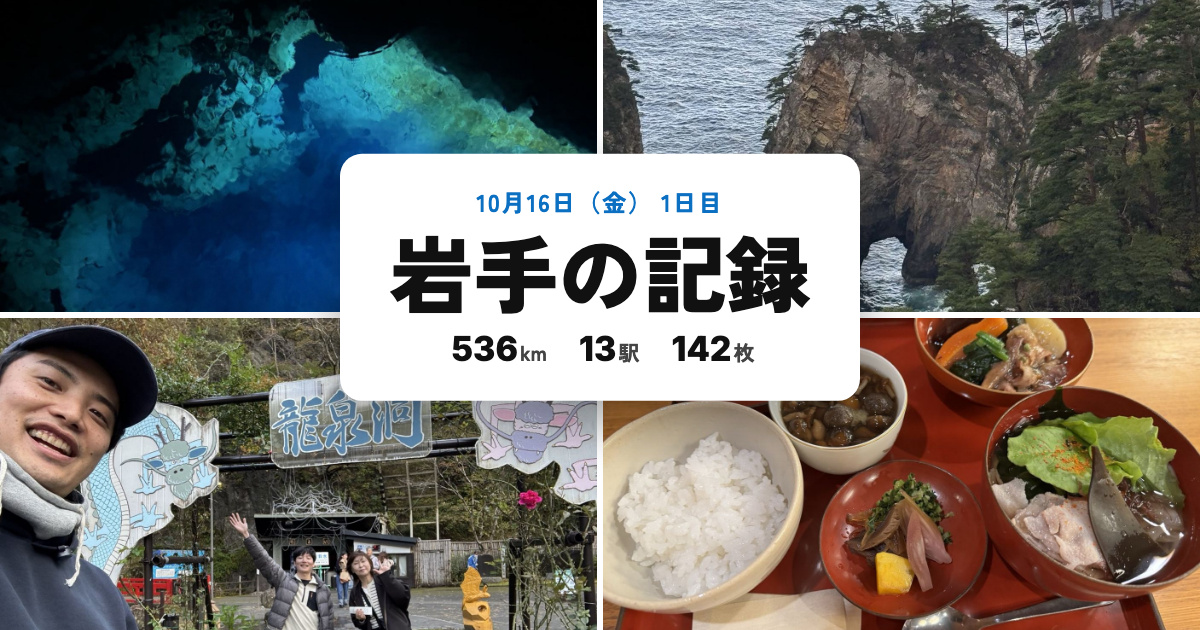
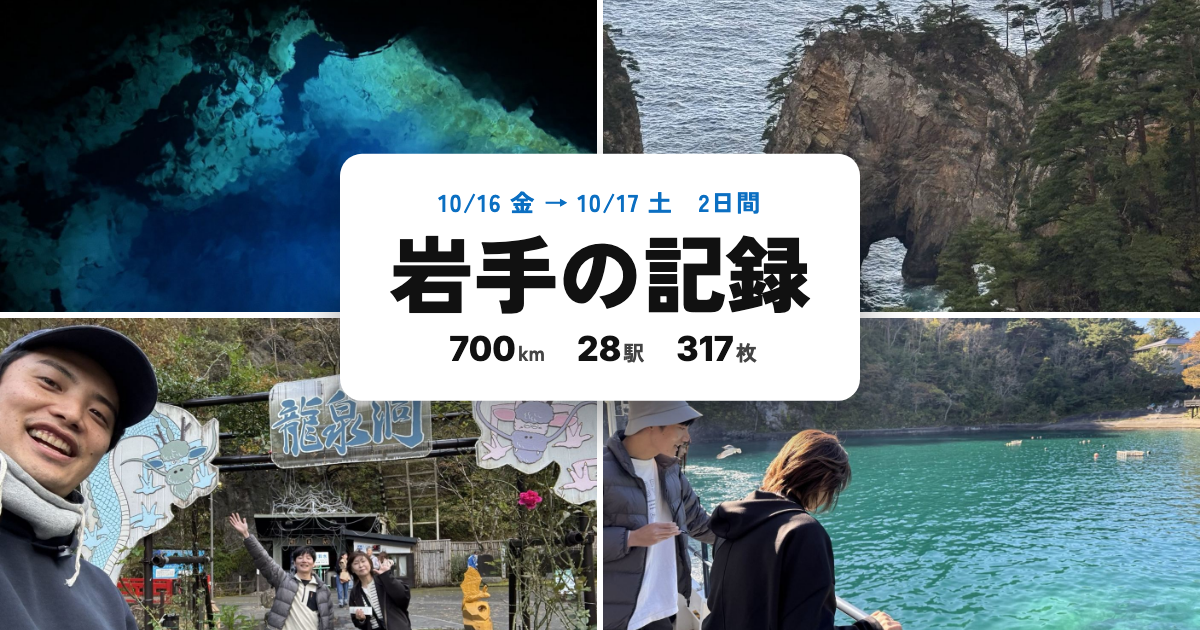
iwate: 写真の見せ方はA案（帯＋全N枚ボタン）に確定しB/Cと切替を削除、サムネを2日分（700km・28駅・317枚）に、ogcard は Chrome の終了コードでなく画像の有無で判定

Changed region(s): [[0.4933, 0.4825, 1.0, 1.0], [0.37, 0.3016, 0.6475, 0.3619], [0.37, 0.5127, 0.6475, 0.573]]

diff --git a/docs/iwate-2026-10/kiroku/index.html b/docs/iwate-2026-10/kiroku/index.html
@@ -47,28 +47,6 @@ section.last .rail::before{bottom:calc(100% - 30px)}
 .hero .nav.p{left:8px}.hero .nav.n{right:8px}
 .hero .cnt{position:absolute;right:8px;bottom:8px;background:rgba(0,0,0,.62);color:#fff;font-size:13px;padding:4px 10px;border-radius:99px}
 .hero .cnt b{font-weight:800}
-.dots,.car,.pg{display:none}
-/* B案: 写真の束（重なった紙の影＋点々） */
-.s-b .sw{display:none}
-.s-b .hero{margin:12px 12px 0 0;overflow:visible;box-shadow:6px -6px 0 -1px #fff,6px -6px 0 0 #d6d6d6,12px -12px 0 -1px #fff,12px -12px 0 0 #c4c4c4}
-.s-b .hero img{border-radius:10px}
-.s-b .hero .cnt{top:8px;bottom:auto;font-size:14px;padding:5px 11px}
-.s-b .dots{display:flex;align-items:center;justify-content:center;gap:6px;flex:none;margin-top:10px}
-.s-b .dots i{width:7px;height:7px;border-radius:50%;background:#cfcfcf;transition:.2s}
-.s-b .dots i.on{width:20px;border-radius:4px;background:var(--dc,var(--acc))}
-.s-b .dots em{font-style:normal;font-size:12px;color:var(--sub);margin-left:6px}
-/* C案: のぞき見カルーセル */
-.s-c .hero,.s-c .sw{display:none}
-.s-c .car{display:flex;flex:1;min-height:0;gap:8px;overflow-x:auto;scroll-snap-type:x mandatory;scrollbar-width:none;margin-right:-16px;padding-right:16px}
-.s-c .car::-webkit-scrollbar{display:none}
-.s-c .car button{position:relative;flex:none;width:84%;height:100%;border-radius:10px;overflow:hidden;scroll-snap-align:start;background:#f3f3f3}
-.s-c .car img{width:100%;height:100%;object-fit:cover}
-.s-c .pg{display:flex;align-items:center;gap:10px;flex:none;margin-top:8px;font-size:13px}
-.s-c .pg span{flex:1;height:4px;background:#e6e6e6;border-radius:2px;overflow:hidden}
-.s-c .pg span i{display:block;height:100%;background:var(--dc,var(--acc));transition:width .2s}
-.s-c .pg b{font-weight:800}.s-c .pg em{font-style:normal}.s-c .pg small{color:var(--sub)}
-.svp{position:fixed;right:10px;top:calc(var(--head) + 10px);white-space:nowrap;z-index:50;background:#111;color:#fff;font:700 13px "Noto Sans JP",sans-serif;padding:6px 6px 6px 14px;border-radius:99px;display:flex;align-items:center;gap:4px;box-shadow:0 4px 14px rgba(0,0,0,.3)}
-.svp a{color:#fff;text-decoration:none;width:32px;height:32px;border-radius:50%;display:grid;place-items:center}.svp a.on{background:#fff;color:#111}
 .strip button{position:relative;flex:none;width:56px;height:56px;border-radius:6px;overflow:hidden;outline-offset:-3px}
 .strip img{width:100%;height:100%;object-fit:cover}
 .strip button.on{outline:3px solid var(--dc,var(--acc))}
@@ -140,10 +118,7 @@ D.days.forEach((dy,di)=>{
   <h2>${esc(s.name)}</h2>
   <p class="meta">写真<b>${s.items.length}</b>枚${s.km!=null?` · 前の駅から<b>${s.km}</b>km`:''}${s.voices.length?' · 会話あり':''}</p>
   <button class="hero" data-i="${i}"><img alt="" loading="${i<2?'eager':'lazy'}" src="${IMG(s.items[0].f)}">${s.items.length>1?`<span class="nav p" data-d="-1" aria-label="前の写真">‹</span><span class="nav n" data-d="1" aria-label="次の写真">›</span><span class="cnt num"><b>1</b> / ${s.items.length}</span>`:''}</button>
-  ${s.items.length>1?`<div class="sw"><div class="strip">${s.items.map((it,k)=>`<button data-f="${it.f}" class="${k?'':'on'}"><img loading="lazy" src="${IMG(it.f)}" alt="">${it.k==='v'?'<i class="vmark">▶</i>':''}</button>`).join('')}</div><button class="more" aria-label="写真の続きを見る">全${s.items.length}枚 ›</button></div>
-  <div class="dots" aria-hidden="true">${Array.from({length:Math.min(s.items.length,9)},(_,k)=>`<i class="${k?'':'on'}"></i>`).join('')}${s.items.length>9?`<em>全${s.items.length}枚</em>`:''}</div>
-  <div class="car" data-i="${i}">${s.items.map((it,k)=>`<button data-k="${k}"><img loading="lazy" src="${IMG(it.f)}" alt="">${it.k==='v'?'<i class="vmark">▶</i>':''}</button>`).join('')}</div>
-  <div class="pg"><span><i style="width:${100/s.items.length}%"></i></span><b class="num"><em>1</em> / ${s.items.length}</b><small>横にスワイプ</small></div>`:''}
+  ${s.items.length>1?`<div class="sw"><div class="strip">${s.items.map((it,k)=>`<button data-f="${it.f}" class="${k?'':'on'}"><img loading="lazy" src="${IMG(it.f)}" alt="">${it.k==='v'?'<i class="vmark">▶</i>':''}</button>`).join('')}</div><button class="more" aria-label="写真の続きを見る">全${s.items.length}枚 ›</button></div>`:''}
   <div class="next">${isLast?`<b>終着</b> ここで${dy.n}日はおしまい`:`次は <span class="num">${two(nx.no)}</span><b>${esc(nx.name)}</b><span class="num">${nx.t0}</span>`}</div>
   </div></section>`;
     sel[i]=s.items[0].f;
@@ -157,7 +132,6 @@ const secOf=i=>$(`#line section[data-i="${i}"]:not([data-talk])`);
 function show(i,f){
   sel[i]=f;const sec=secOf(i);$('.hero img',sec).src=IMG(f);
   const k=S[i].items.findIndex(x=>x.f===f),n=S[i].items.length,c=$('.cnt b',sec);if(c)c.textContent=k+1;
-  const ds=$$('.dots i',sec);ds.forEach((d,j)=>d.classList.toggle('on',j===Math.min(ds.length-1,Math.floor(k*ds.length/n))));
   $$('.strip button',sec).forEach(b=>{b.classList.toggle('on',b.dataset.f===f);if(b.dataset.f===f)b.scrollIntoView({inline:'center',block:'nearest',behavior:'smooth'})});
   M.light(f);
 }
@@ -167,16 +141,6 @@ line.addEventListener('click',e=>{
   const mo=e.target.closest('.more');if(mo){const st=mo.previousElementSibling;st.scrollBy({left:st.clientWidth*.8,behavior:'smooth'});return}
   const h=e.target.closest('.hero');if(h){const i=+h.dataset.i,L=S[i].items;lightbox(D,L,L.findIndex(x=>x.f===sel[i]),it=>show(i,it.f))}
 });
-// 帯まわりのデザイン案（?strip=a|b|c で切替。決まったら1案に絞る）
-const SV=(new URLSearchParams(location.search).get('strip')||'a').toLowerCase();document.body.classList.add('s-'+SV);
-if(new URLSearchParams(location.search).has('strip')){const p=document.createElement('nav');p.className='svp';
-  p.innerHTML='写真の案 '+['a','b','c'].map(v=>`<a href="?strip=${v}${location.hash}" class="${v===SV?'on':''}">${v.toUpperCase()}</a>`).join('');document.body.append(p)}
-// C案: のぞき見カルーセル
-$$('.car').forEach(cr=>{const i=+cr.dataset.i,L=S[i].items,sec=cr.closest('section'),bar=$('.pg i',sec),lb=$('.pg em',sec);
-  cr.addEventListener('scroll',()=>{const w=cr.firstElementChild.offsetWidth+8,k=Math.min(L.length-1,Math.round(cr.scrollLeft/w));
-    bar.style.width=(k+1)*100/L.length+'%';lb.textContent=k+1;if(sel[i]!==L[k].f){sel[i]=L[k].f;M.light(L[k].f)}},{passive:true});
-  cr.addEventListener('click',e=>{const b=e.target.closest('button');if(!b)return;e.stopPropagation();
-    lightbox(D,L,+b.dataset.k,it=>{const k=L.indexOf(it);cr.scrollTo({left:k*(cr.firstElementChild.offsetWidth+8)})})})});
 const step=(i,d)=>{const L=S[i].items,k=L.findIndex(x=>x.f===(sel[i]||L[0].f));show(i,L[(k+d+L.length)%L.length].f)};
 // 大きい写真は左右スワイプでもめくれる
 let tx=null;line.addEventListener('touchstart',e=>{tx=e.target.closest('.hero')?e.touches[0].clientX:null},{passive:true});
@@ -187,8 +151,8 @@ line.addEventListener('click',e=>{if(e.target.closest('.hero[data-sw]'))e.stopIm
 const endChk=st=>st.parentNode.classList.toggle('end',st.scrollLeft+st.clientWidth>=st.scrollWidth-4);
 $$('.strip').forEach(st=>{st.addEventListener('scroll',()=>endChk(st),{passive:true});endChk(st)});
 // 駅に来たら帯を一度だけ少し流して戻す（続きがある合図）
-const nudged=new Set();const nudge=i=>{const st=$(SV==='c'?'.car':'.strip',secOf(i));if(SV==='b')return;if(!st||nudged.has(i)||st.scrollWidth<=st.clientWidth)return;nudged.add(i);
-  setTimeout(()=>{st.scrollBy({left:SV==='c'?140:90,behavior:'smooth'});setTimeout(()=>st.scrollBy({left:SV==='c'?-140:-90,behavior:'smooth'}),650)},350)};
+const nudged=new Set();const nudge=i=>{const st=$('.strip',secOf(i));if(!st||nudged.has(i)||st.scrollWidth<=st.clientWidth)return;nudged.add(i);
+  setTimeout(()=>{st.scrollBy({left:90,behavior:'smooth'});setTimeout(()=>st.scrollBy({left:-90,behavior:'smooth'}),650)},350)};
 // LINE等のアプリ内ブラウザは 100dvh が見えている高さより大きいことがあるので、実際の高さで駅の高さを決める
 const fit=()=>document.documentElement.style.setProperty('--secH',line.clientHeight+'px');fit();addEventListener('resize',fit);
 let cur=null;

diff --git a/engine/kiroku/tpl.html b/engine/kiroku/tpl.html
@@ -45,10 +45,7 @@ D.days.forEach((dy,di)=>{
   <h2>${esc(s.name)}</h2>
   <p class="meta">写真<b>${s.items.length}</b>枚${s.km!=null?` · 前の駅から<b>${s.km}</b>km`:''}${s.voices.length?' · 会話あり':''}</p>
   <button class="hero" data-i="${i}"><img alt="" loading="${i<2?'eager':'lazy'}" src="${IMG(s.items[0].f)}">${s.items.length>1?`<span class="nav p" data-d="-1" aria-label="前の写真">‹</span><span class="nav n" data-d="1" aria-label="次の写真">›</span><span class="cnt num"><b>1</b> / ${s.items.length}</span>`:''}</button>
-  ${s.items.length>1?`<div class="sw"><div class="strip">${s.items.map((it,k)=>`<button data-f="${it.f}" class="${k?'':'on'}"><img loading="lazy" src="${IMG(it.f)}" alt="">${it.k==='v'?'<i class="vmark">▶</i>':''}</button>`).join('')}</div><button class="more" aria-label="写真の続きを見る">全${s.items.length}枚 ›</button></div>
-  <div class="dots" aria-hidden="true">${Array.from({length:Math.min(s.items.length,9)},(_,k)=>`<i class="${k?'':'on'}"></i>`).join('')}${s.items.length>9?`<em>全${s.items.length}枚</em>`:''}</div>
-  <div class="car" data-i="${i}">${s.items.map((it,k)=>`<button data-k="${k}"><img loading="lazy" src="${IMG(it.f)}" alt="">${it.k==='v'?'<i class="vmark">▶</i>':''}</button>`).join('')}</div>
-  <div class="pg"><span><i style="width:${100/s.items.length}%"></i></span><b class="num"><em>1</em> / ${s.items.length}</b><small>横にスワイプ</small></div>`:''}
+  ${s.items.length>1?`<div class="sw"><div class="strip">${s.items.map((it,k)=>`<button data-f="${it.f}" class="${k?'':'on'}"><img loading="lazy" src="${IMG(it.f)}" alt="">${it.k==='v'?'<i class="vmark">▶</i>':''}</button>`).join('')}</div><button class="more" aria-label="写真の続きを見る">全${s.items.length}枚 ›</button></div>`:''}
   <div class="next">${isLast?`<b>終着</b> ここで${dy.n}日はおしまい`:`次は <span class="num">${two(nx.no)}</span><b>${esc(nx.name)}</b><span class="num">${nx.t0}</span>`}</div>
   </div></section>`;
     sel[i]=s.items[0].f;
@@ -62,7 +59,6 @@ const secOf=i=>$(`#line section[data-i="${i}"]:not([data-talk])`);
 function show(i,f){
   sel[i]=f;const sec=secOf(i);$('.hero img',sec).src=IMG(f);
   const k=S[i].items.findIndex(x=>x.f===f),n=S[i].items.length,c=$('.cnt b',sec);if(c)c.textContent=k+1;
-  const ds=$$('.dots i',sec);ds.forEach((d,j)=>d.classList.toggle('on',j===Math.min(ds.length-1,Math.floor(k*ds.length/n))));
   $$('.strip button',sec).forEach(b=>{b.classList.toggle('on',b.dataset.f===f);if(b.dataset.f===f)b.scrollIntoView({inline:'center',block:'nearest',behavior:'smooth'})});
   M.light(f);
 }
@@ -72,16 +68,6 @@ line.addEventListener('click',e=>{
   const mo=e.target.closest('.more');if(mo){const st=mo.previousElementSibling;st.scrollBy({left:st.clientWidth*.8,behavior:'smooth'});return}
   const h=e.target.closest('.hero');if(h){const i=+h.dataset.i,L=S[i].items;lightbox(D,L,L.findIndex(x=>x.f===sel[i]),it=>show(i,it.f))}
 });
-// 帯まわりのデザイン案（?strip=a|b|c で切替。決まったら1案に絞る）
-const SV=(new URLSearchParams(location.search).get('strip')||'a').toLowerCase();document.body.classList.add('s-'+SV);
-if(new URLSearchParams(location.search).has('strip')){const p=document.createElement('nav');p.className='svp';
-  p.innerHTML='写真の案 '+['a','b','c'].map(v=>`<a href="?strip=${v}${location.hash}" class="${v===SV?'on':''}">${v.toUpperCase()}</a>`).join('');document.body.append(p)}
-// C案: のぞき見カルーセル
-$$('.car').forEach(cr=>{const i=+cr.dataset.i,L=S[i].items,sec=cr.closest('section'),bar=$('.pg i',sec),lb=$('.pg em',sec);
-  cr.addEventListener('scroll',()=>{const w=cr.firstElementChild.offsetWidth+8,k=Math.min(L.length-1,Math.round(cr.scrollLeft/w));
-    bar.style.width=(k+1)*100/L.length+'%';lb.textContent=k+1;if(sel[i]!==L[k].f){sel[i]=L[k].f;M.light(L[k].f)}},{passive:true});
-  cr.addEventListener('click',e=>{const b=e.target.closest('button');if(!b)return;e.stopPropagation();
-    lightbox(D,L,+b.dataset.k,it=>{const k=L.indexOf(it);cr.scrollTo({left:k*(cr.firstElementChild.offsetWidth+8)})})})});
 const step=(i,d)=>{const L=S[i].items,k=L.findIndex(x=>x.f===(sel[i]||L[0].f));show(i,L[(k+d+L.length)%L.length].f)};
 // 大きい写真は左右スワイプでもめくれる
 let tx=null;line.addEventListener('touchstart',e=>{tx=e.target.closest('.hero')?e.touches[0].clientX:null},{passive:true});
@@ -92,8 +78,8 @@ line.addEventListener('click',e=>{if(e.target.closest('.hero[data-sw]'))e.stopIm
 const endChk=st=>st.parentNode.classList.toggle('end',st.scrollLeft+st.clientWidth>=st.scrollWidth-4);
 $$('.strip').forEach(st=>{st.addEventListener('scroll',()=>endChk(st),{passive:true});endChk(st)});
 // 駅に来たら帯を一度だけ少し流して戻す（続きがある合図）
-const nudged=new Set();const nudge=i=>{const st=$(SV==='c'?'.car':'.strip',secOf(i));if(SV==='b')return;if(!st||nudged.has(i)||st.scrollWidth<=st.clientWidth)return;nudged.add(i);
-  setTimeout(()=>{st.scrollBy({left:SV==='c'?140:90,behavior:'smooth'});setTimeout(()=>st.scrollBy({left:SV==='c'?-140:-90,behavior:'smooth'}),650)},350)};
+const nudged=new Set();const nudge=i=>{const st=$('.strip',secOf(i));if(!st||nudged.has(i)||st.scrollWidth<=st.clientWidth)return;nudged.add(i);
+  setTimeout(()=>{st.scrollBy({left:90,behavior:'smooth'});setTimeout(()=>st.scrollBy({left:-90,behavior:'smooth'}),650)},350)};
 // LINE等のアプリ内ブラウザは 100dvh が見えている高さより大きいことがあるので、実際の高さで駅の高さを決める
 const fit=()=>document.documentElement.style.setProperty('--secH',line.clientHeight+'px');fit();addEventListener('resize',fit);
 let cur=null;

diff --git a/engine/kiroku/page.css b/engine/kiroku/page.css
@@ -37,28 +37,6 @@ section.last .rail::before{bottom:calc(100% - 30px)}
 .hero .nav.p{left:8px}.hero .nav.n{right:8px}
 .hero .cnt{position:absolute;right:8px;bottom:8px;background:rgba(0,0,0,.62);color:#fff;font-size:13px;padding:4px 10px;border-radius:99px}
 .hero .cnt b{font-weight:800}
-.dots,.car,.pg{display:none}
-/* B案: 写真の束（重なった紙の影＋点々） */
-.s-b .sw{display:none}
-.s-b .hero{margin:12px 12px 0 0;overflow:visible;box-shadow:6px -6px 0 -1px #fff,6px -6px 0 0 #d6d6d6,12px -12px 0 -1px #fff,12px -12px 0 0 #c4c4c4}
-.s-b .hero img{border-radius:10px}
-.s-b .hero .cnt{top:8px;bottom:auto;font-size:14px;padding:5px 11px}
-.s-b .dots{display:flex;align-items:center;justify-content:center;gap:6px;flex:none;margin-top:10px}
-.s-b .dots i{width:7px;height:7px;border-radius:50%;background:#cfcfcf;transition:.2s}
-.s-b .dots i.on{width:20px;border-radius:4px;background:var(--dc,var(--acc))}
-.s-b .dots em{font-style:normal;font-size:12px;color:var(--sub);margin-left:6px}
-/* C案: のぞき見カルーセル */
-.s-c .hero,.s-c .sw{display:none}
-.s-c .car{display:flex;flex:1;min-height:0;gap:8px;overflow-x:auto;scroll-snap-type:x mandatory;scrollbar-width:none;margin-right:-16px;padding-right:16px}
-.s-c .car::-webkit-scrollbar{display:none}
-.s-c .car button{position:relative;flex:none;width:84%;height:100%;border-radius:10px;overflow:hidden;scroll-snap-align:start;background:#f3f3f3}
-.s-c .car img{width:100%;height:100%;object-fit:cover}
-.s-c .pg{display:flex;align-items:center;gap:10px;flex:none;margin-top:8px;font-size:13px}
-.s-c .pg span{flex:1;height:4px;background:#e6e6e6;border-radius:2px;overflow:hidden}
-.s-c .pg span i{display:block;height:100%;background:var(--dc,var(--acc));transition:width .2s}
-.s-c .pg b{font-weight:800}.s-c .pg em{font-style:normal}.s-c .pg small{color:var(--sub)}
-.svp{position:fixed;right:10px;top:calc(var(--head) + 10px);white-space:nowrap;z-index:50;background:#111;color:#fff;font:700 13px "Noto Sans JP",sans-serif;padding:6px 6px 6px 14px;border-radius:99px;display:flex;align-items:center;gap:4px;box-shadow:0 4px 14px rgba(0,0,0,.3)}
-.svp a{color:#fff;text-decoration:none;width:32px;height:32px;border-radius:50%;display:grid;place-items:center}.svp a.on{background:#fff;color:#111}
 .strip button{position:relative;flex:none;width:56px;height:56px;border-radius:6px;overflow:hidden;outline-offset:-3px}
 .strip img{width:100%;height:100%;object-fit:cover}
 .strip button.on{outline:3px solid var(--dc,var(--acc))}

diff --git a/engine/ogcard.py b/engine/ogcard.py
@@ -1,7 +1,7 @@
 """シェアカード(1200x630)とアイコン(180)を作る: python3 engine/ogcard.py <slug>（build.py の後に実行し、もう一度 build.py）
 型はC案「写真4枚＋白い札」（2026-10-16 ユウキ選定）。trip.json の "og" で写真とトリミング位置を指定する:
   "og": {"icon":"岩", "yotei":{"label":"…","photos":[["img/x.jpg","50% 50%"],…4枚]}, "kiroku":{"photos":[["album/072.jpg","50% 50%"],…4枚]}}
-写真のパスは docs/<slug>/ からの相対。札の数字は 予定=cover.nums、記録=kiroku/data.json の最初の日。
+写真のパスは docs/<slug>/ からの相対。札の数字は 予定=cover.nums、記録=kiroku/data.json の全日の合計。
 出力は packs/<slug>/img/ と docs/<slug>/img/ の両方に og-yotei.png・og-kiroku.png・icon.png。
 X はカード下端に字をかぶせるので、札は中央より上に置く。"""
 import json,sys,re,pathlib,subprocess,tempfile,html,shutil
@@ -21,9 +21,12 @@ CSS='''<link href="https://fonts.googleapis.com/css2?family=Inter:wght@800&famil
 def shot(body,out,w=1200,h=630):
     with tempfile.NamedTemporaryFile('w',suffix='.html',delete=False,encoding='utf-8') as f:
         f.write(f'<!doctype html><meta charset="utf-8">{CSS}<body style="width:{w}px;height:{h}px">{body}');p=f.name
+    pathlib.Path(out).unlink(missing_ok=True)
+    # Chrome は撮った後の終了処理で落ちて非0を返すことがある → 終了コードでなく画像ができたかで判定する
     subprocess.run([CHROME,'--headless=new','--disable-gpu','--hide-scrollbars','--force-device-scale-factor=1',f'--window-size={w},{h}',
-                    '--virtual-time-budget=6000',f'--screenshot={out}','file://'+p],capture_output=True,check=True)
+                    '--virtual-time-budget=6000',f'--screenshot={out}','file://'+p],capture_output=True)
     pathlib.Path(p).unlink()
+    if not pathlib.Path(out).exists():raise SystemExit(f'撮影に失敗: {out}')
 def card(D,color,label,title,nums,photos):
     g=''.join(f'<img src="{(D/p).as_uri()}" style="object-position:{pos}">' for p,pos in photos)
     s=''.join(f'<span>{e(k)}<b>{e(n)}</b>{e(u)}</span>' for k,n,u in nums)
@@ -37,9 +40,10 @@ def main(slug):
         [(k,*split(v)) for k,v,_ in d['cover']['nums']],y['photos'])
     kd=D/'kiroku'/'data.json'
     if o.get('kiroku') and kd.exists():
-        day=next(x for x in json.load(open(kd,encoding='utf-8'))['days'] if x.get('count'));n=day['nums']
-        out['og-kiroku.png']=card(D,day['color'],f'{day["label"]} {day["k"]}',d.get('kiroku_title') or d['title']+' の記録',
-            [('',str(n['km']),'km'),('',str(n['stops']),'駅'),('',str(n['photos']),'枚')],o['kiroku']['photos'])
+        days=[x for x in json.load(open(kd,encoding='utf-8'))['days'] if x.get('count')];tot=lambda k:str(sum(x['nums'][k] for x in days))
+        lab=f'{days[0]["label"]} {days[0]["k"]}' if len(days)==1 else f'{d["date_label"]}　{len(days)}日間'
+        out['og-kiroku.png']=card(D,days[0]['color'],lab,d.get('kiroku_title') or d['title']+' の記録',
+            [('',tot('km'),'km'),('',tot('stops'),'駅'),('',tot('photos'),'枚')],o['kiroku']['photos'])
     for name,body in out.items(): shot(body,P/'img'/name)
     shot(f'<div class="ico"><b>{e(o["icon"])}</b></div>',P/'img'/'icon.png',180,180)
     for name in [*out,'icon.png']:
